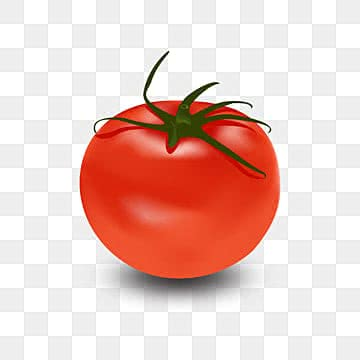
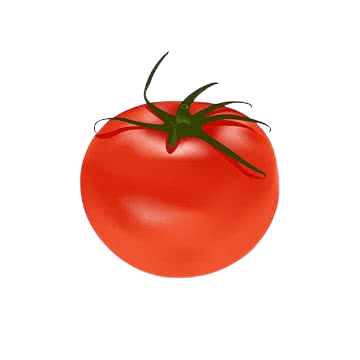
56

Changed region(s): [[0.2444, 0.4278, 0.825, 0.8556], [0.2444, 0.1222, 0.7639, 0.4278], [0.2139, 0.3972, 0.2444, 0.6111]]

diff --git a/main.py b/main.py
@@ -4,7 +4,7 @@ from random import randint
 
 from kivy.clock import Clock
 from kivy.metrics import dp
-from kivy.properties import NumericProperty, StringProperty, ListProperty
+from kivy.properties import NumericProperty, StringProperty, ListProperty, BooleanProperty
 from kivymd.app import MDApp
 from kivymd.uix.screenmanager import MDScreenManager
 from kivymd.uix.screen import MDScreen
@@ -27,7 +27,6 @@ BULLET_SPAWN_OFFSET = dp(5)
 RECORD_FILE = "record.json"
 SETTINGS_FILE = "settings.json"
 
-# СПИСОК СКИНОВ - подставь сюда свои пути к картинкам
 SKINS = [
     {"name": "Классика", "source": "assets/images/rocket.png"},
     {"name": "Скин 2", "source": "assets/images/rocket_2.png"},
@@ -183,6 +182,7 @@ class EnemyShip(Ship):
 class GameScreen(MDScreen):
     score = NumericProperty(0)
     score_text = StringProperty("0")
+    paused = BooleanProperty(False)
 
     def __init__(self, *args, **kwargs):
         super().__init__(*args, **kwargs)
@@ -199,13 +199,15 @@ class GameScreen(MDScreen):
         Window.bind(on_key_up=self.on_key_up)
 
     KEY_MAP = {
-        276: "left",   # стрелка влево
-        275: "right",  # стрелка вправо
-        32: "shot",    # пробел
-        273: "shot",   # стрелка вверх
+        276: "left",
+        275: "right",
+        32: "shot",
+        273: "shot",
     }
 
     def on_key_down(self, window, key, *args):
+        if self.paused:
+            return
         action = self.KEY_MAP.get(key)
         if action:
             self.pressKey(action)
@@ -218,23 +220,17 @@ class GameScreen(MDScreen):
     def on_pre_enter(self, *args):
         self.score = 0
         self.score_text = "0"
+        self.paused = False
         self.ship.applySkin()
         return super().on_pre_enter(*args)
 
     def on_enter(self, *args):
-        self.updateEvent = Clock.schedule_interval(self.update, 1 / FPS)
-        self.spawnEvent = Clock.schedule_interval(self.spawnEnemy, ENEMY_SPAWN_INTERVAL)
-        self.spawnEnemy(0)
+        self.startGame()
         return super().on_enter(*args)
 
     def on_leave(self, *args):
-        # останавливаем события при выходе с экрана, чтобы не плодить дубликаты
-        if self.updateEvent:
-            self.updateEvent.cancel()
-        if self.spawnEvent:
-            self.spawnEvent.cancel()
+        self.stopEvents()
 
-        # чистим оставшихся врагов и пули
         for enemy in self.enemyShips[:]:
             if enemy.parent:
                 enemy.parent.remove_widget(enemy)
@@ -246,6 +242,33 @@ class GameScreen(MDScreen):
         self.bullets.clear()
 
         return super().on_leave(*args)
+
+    def startGame(self):
+        self.updateEvent = Clock.schedule_interval(self.update, 1 / FPS)
+        self.spawnEvent = Clock.schedule_interval(self.spawnEnemy, ENEMY_SPAWN_INTERVAL)
+        self.spawnEnemy(0)
+
+    def stopEvents(self):
+        if self.updateEvent:
+            self.updateEvent.cancel()
+            self.updateEvent = None
+        if self.spawnEvent:
+            self.spawnEvent.cancel()
+            self.spawnEvent = None
+
+    def show_menu(self):
+        """Вызывается кнопкой паузы"""
+        self.paused = True
+        self.eventkeys.clear()  # чтобы корабль не "залипал" в движении при паузе
+        self.stopEvents()
+
+    def resumeGame(self):
+        self.paused = False
+        self.startGame()
+
+    def exitToMenu(self):
+        self.paused = False
+        self.manager.current = 'main'
 
     def addScore(self, amount=1):
         self.score += amount
@@ -288,6 +311,8 @@ class GameScreen(MDScreen):
                 self.enemyShips.remove(enemy)
 
     def pressKey(self, key):
+        if self.paused:
+            return
         self.eventkeys[key] = True
 
     def releaseKey(self, key):
